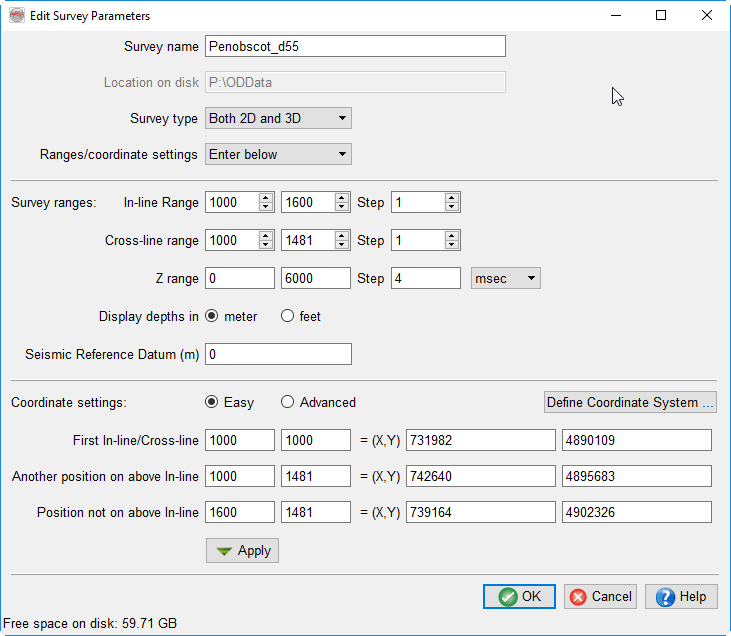
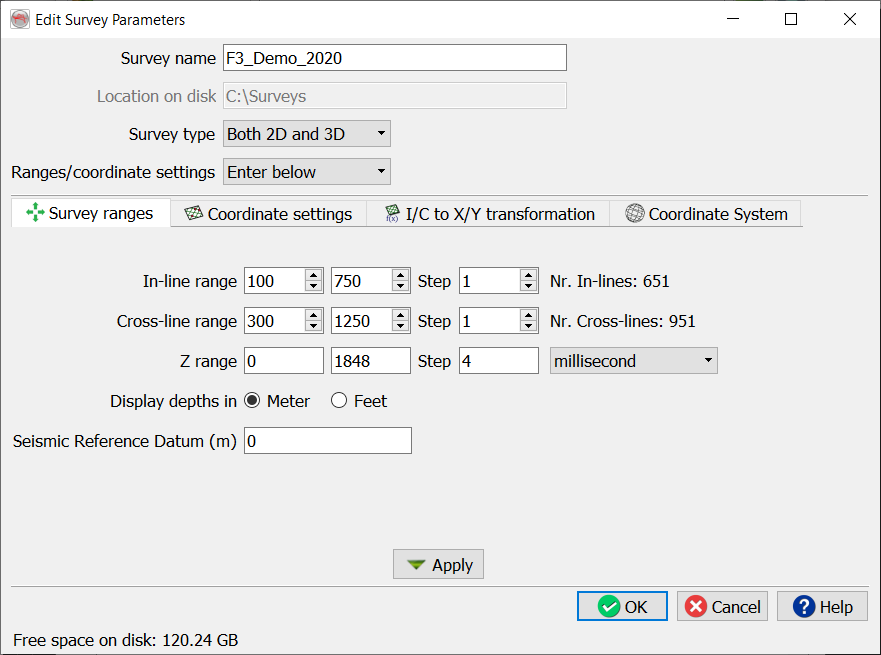
Updated Survey Setup images, added copy survey info to clipboard info,

diff --git a/od_userdoc/Content/Survey/Select_Setup_Survey/Edit_Survey_Window/Coordinate_Ranges.htm b/od_userdoc/Content/Survey/Select_Setup_Survey/Edit_Survey_Window/Coordinate_Ranges.htm
@@ -1,11 +1,14 @@
 <?xml version="1.0" encoding="utf-8"?>
-<html xmlns:MadCap="http://www.madcapsoftware.com/Schemas/MadCap.xsd" MadCap:lastBlockDepth="6" MadCap:lastHeight="487" MadCap:lastWidth="1827">
+<html xmlns:MadCap="http://www.madcapsoftware.com/Schemas/MadCap.xsd">
     <head>
     </head>
     <body>
         <h4>4.1.3.2 Coordinate Ranges<MadCap:keyword term="Coordinate Ranges" /></h4>
         <p>The relationship between inline/crossline and X/Y can be specified in two ways. The easy way is to specify three points, two of which must be on the same inline. Due to rounding off errors, this method may not be 100% accurate.</p>
-        <p>In the <i>Advanced</i> option, the exact transformation from one coordinate system to an other can be specified. The <i>Apply</i> button can be used to verify results graphically and to check the coordinate transformation formula.</p>
+        <p>
+            <img src="../../../Resources/Images/Survey/Survey coords.png" />
+        </p>
+        <p>In the <i>I/C to X/Y Transformation</i> tab, the exact transformation from one coordinate system to an other can be specified. The <i>Apply</i> button can be used to verify results graphically and to check the coordinate transformation formula.</p>
         <img src="../../../Resources/Images/Survey/Survey advanced coords.png" class="General_Image" />
         <p>Starting in version 6.2 it’s possible to set an orthogonal coordinate system for each OpendTect survey. At this point the following features are supported:</p>
         <ul>

diff --git a/od_userdoc/Content/Survey/Select_Setup_Survey/Survey_Selection_Window.htm b/od_userdoc/Content/Survey/Select_Setup_Survey/Survey_Selection_Window.htm
@@ -31,6 +31,8 @@
             <img src="../../Resources/Images/Survey/Survey xy to ic file.png" class="General_Image" />
         </div>
         <p>
+            <img src="../../Resources/Images/Icons/clipboard.png" class="Icons" />is used to copy survey information to the clipboard.</p>
+        <p>
             <img src="../../Resources/Images/Icons/google.png" class="Icons" /> is used to export the selected survey boundary in a *.kml file, which is accessible via Google Earth. The dialog box contains the editable fields for the survey box. The area of the survey box is filled with the selected color. The width is the horizontal thickness of the survey outline. The border height is the altitude of the line with respect to the ground. The Output file field is an output location of the *.kml file. On 'Ok' the file (*.kml) is written at the specified path, which can be opened directly in Google Earth.</p>
         <img src="../../Resources/Images/Survey/Survey export to google earth.png" class="General_Image" />
         <p>Before exporting the *.kml file, specify the correspondence between X-Y coordinates and latitude/longitude at any location in the surveybox <img src="../../Resources/Images/Icons/spherewire.png" class="Icons" /> :</p>
